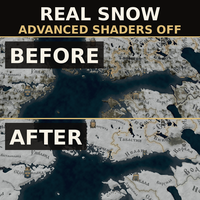
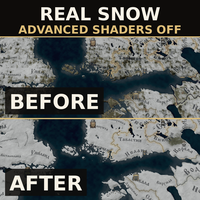
Preview: labels at the bottom of each half

Changed region(s): [[0.0, 0.42, 0.54, 0.75], [0.0, 0.18, 0.54, 0.36], [0.0, 0.84, 0.45, 0.99]]

diff --git a/steam-workshop/thumbnail_layout.py b/steam-workshop/thumbnail_layout.py
@@ -37,8 +37,10 @@ def make(out, title, before, after, crop_before, crop_after, sub="ADVANCED SHADE
     tw = d.textlength(title, font=f_title); d.text(((S - tw) / 2, 18), title, font=f_title, fill=CREAM)
     sw = d.textlength(sub, font=f_sub); d.text(((S - sw) / 2, 118), sub, font=f_sub, fill=GOLD)
     # half labels
-    label(d, BAND + 22, "BEFORE", f_tag)
-    label(d, BAND + HALF + 22, "AFTER", f_tag)
+    # labels at the bottom of each half, so the top of the screenshot stays clear
+    tag_h = f_tag.size + 22 * 2 - 10
+    label(d, BAND + HALF - tag_h - 22, "BEFORE", f_tag)
+    label(d, S - tag_h - 22, "AFTER", f_tag)
     # seams
     d.rectangle([0, BAND - 4, S, BAND], fill=GOLD)
     d.rectangle([0, BAND + HALF - 3, S, BAND + HALF + 2], fill=GOLD)
